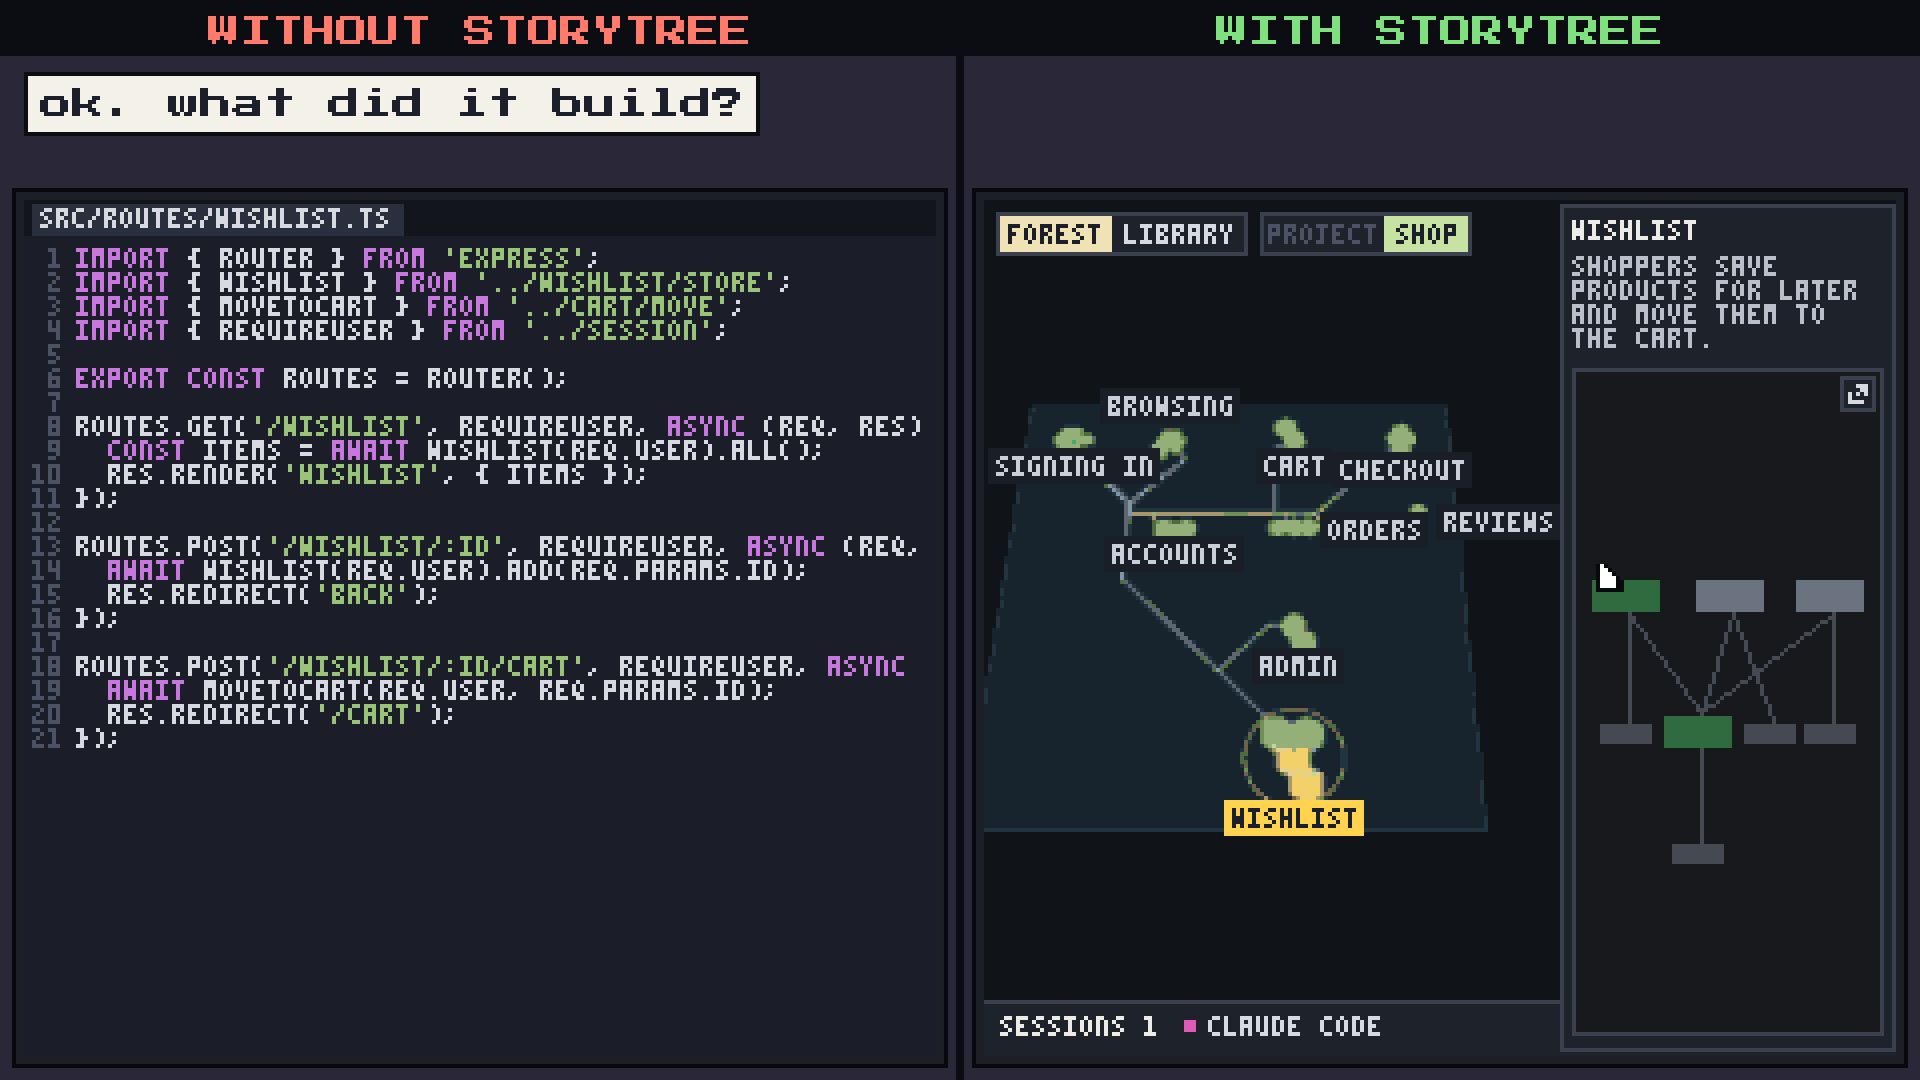
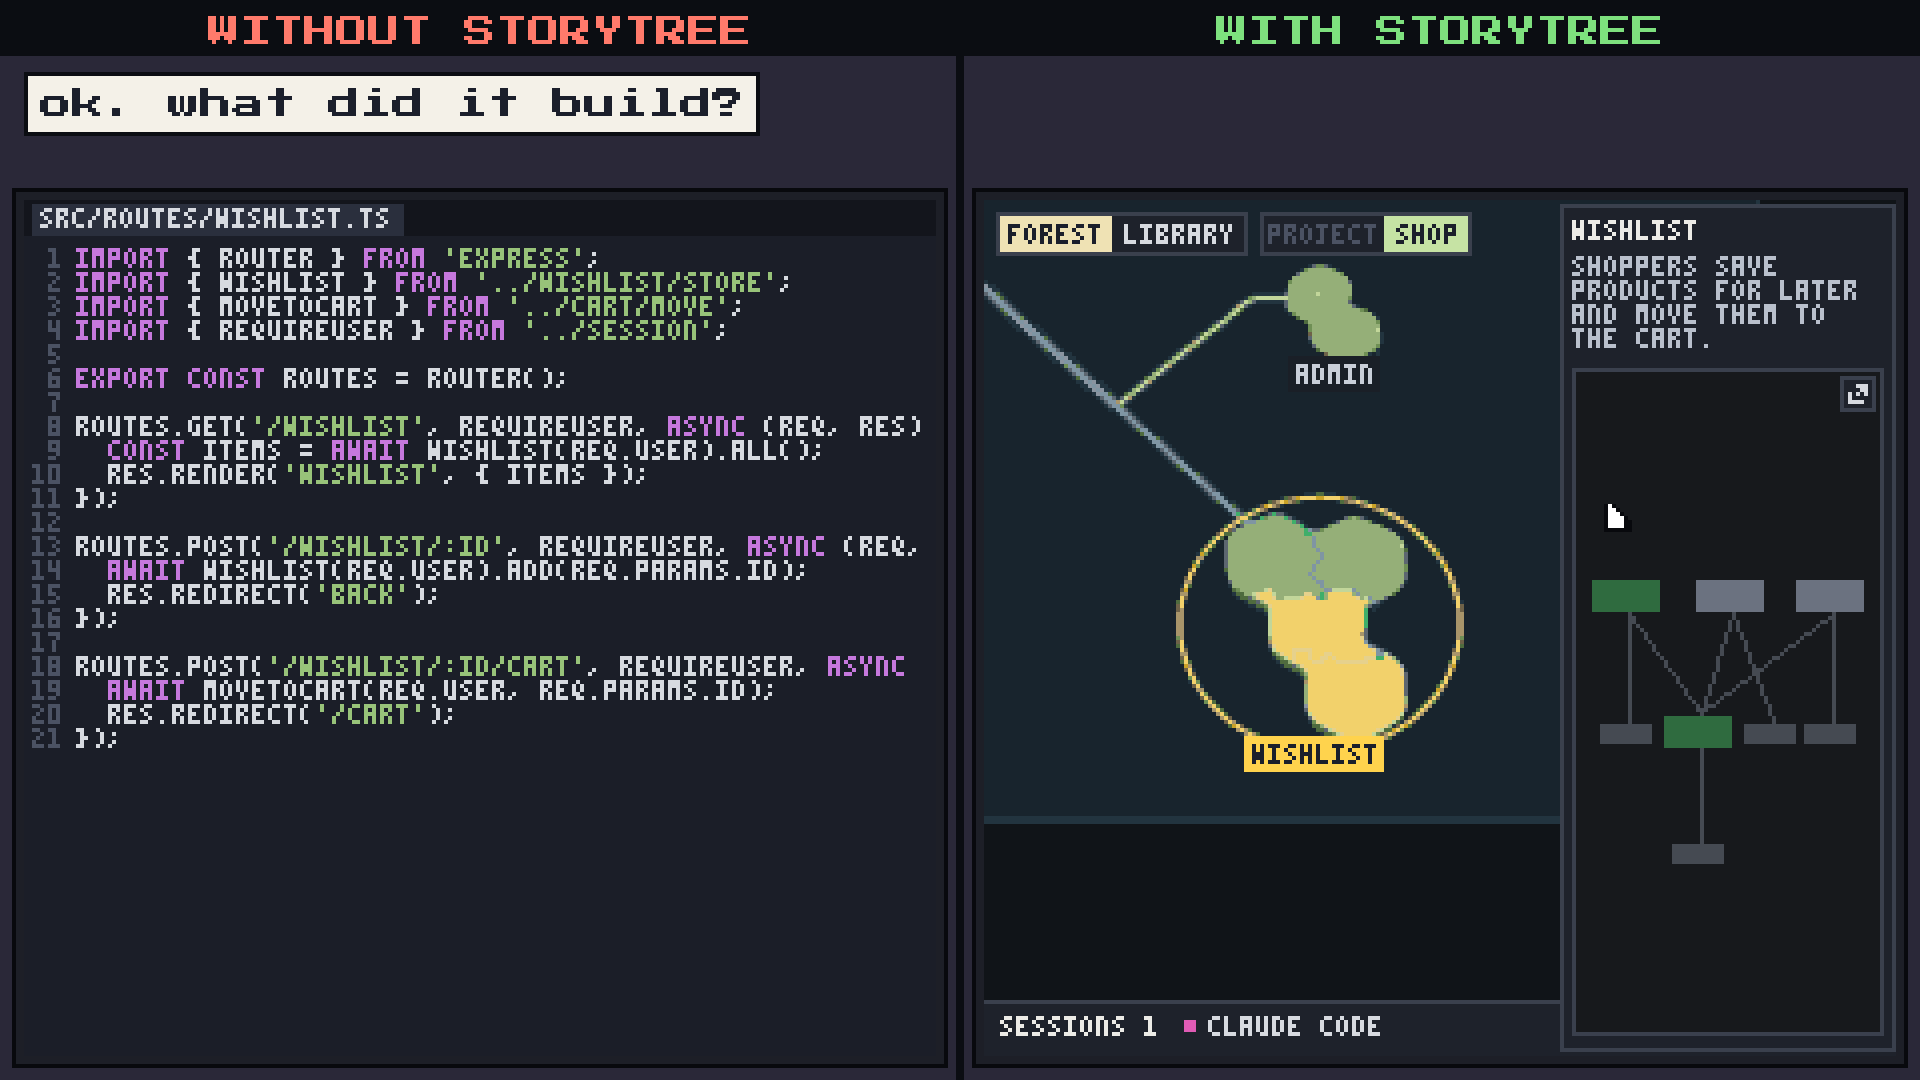
Round 5's findings and the second loop's trail: two majors on the map stand after the cap

Changed region(s): [[0.5, 0.2444, 0.8438, 0.7944], [0.8125, 0.5194, 0.8438, 0.55], [0.7812, 0.7333, 0.8125, 0.7639]]

diff --git a/packages/website/evidence/first-short/polish-2/round-5/timing.md b/packages/website/evidence/first-short/polish-2/round-5/timing.md
@@ -1,0 +1,73 @@
+# Round 5: the script's timing
+
+58 s at 30 fps; the end card from 54 s. Cuts (a change of view, app or file; a new pose or thought inside one view is not a cut): left 1.50, 10.00, 11.00, 15.50, 19.00, 22.00, 23.00, 37.50, 38.50, 41.00, 42.00, 48.00, 49.00; right 1.50, 10.00, 11.00, 15.50, 19.00, 22.00, 23.00, 41.00, 48.00; the end card 54.00.
+
+## Without storytree (left half)
+
+| from | to | view | screen | pose | what happens |
+| --- | --- | --- | --- | --- | --- |
+| 0.00 | 1.50 | room | claude | typing |  |
+| 1.50 | 10.00 | full | claude | typing | types "add a wishlist to the shop"; Claude: "done: shoppers can save items for later. 9 files changed." |
+| 10.00 | 11.00 | room | code src/routes/wishlist.ts | reading |  |
+| 11.00 | 15.50 | full | code src/routes/wishlist.ts | reading | thinks "ok. what did it build?" |
+| 15.50 | 19.00 | full | code src/wishlist/store.ts | reading | thinks "so this saves the list..." |
+| 19.00 | 22.00 | full | code src/cart/move.ts | reading | thinks "and this moves it?" |
+| 22.00 | 23.00 | room | claude | typing |  |
+| 23.00 | 32.60 | full | claude | typing | types "ok so the wishlist thing you built. not the page with the..." (349 chars); Claude: "which one: move in cart, or the button?" |
+| 32.60 | 37.50 | full | claude | reading | thinks "let me look." |
+| 37.50 | 38.50 | room | code src/cart/move.ts | reading |  |
+| 38.50 | 41.00 | full | code src/cart/move.ts | reading | thinks "this one?" |
+| 41.00 | 42.00 | room | claude | typing |  |
+| 42.00 | 48.00 | full | claude | typing | types "the cart one i think"; Claude: "and should it stay on the wishlist after?" |
+| 48.00 | 49.00 | room | code src/wishlist/store.ts | reading |  |
+| 49.00 | 54.00 | full | code src/wishlist/store.ts | reading | thinks "let me check..." |
+
+## With storytree (right half)
+
+| from | to | view | screen | pose | what happens |
+| --- | --- | --- | --- | --- | --- |
+| 0.00 | 1.50 | room | claude | typing |  |
+| 1.50 | 10.00 | full | claude | typing | types "add a wishlist to the shop"; Claude: "done: shoppers can save items for later. 9 files changed." |
+| 10.00 | 11.00 | room | map | typing |  |
+| 11.00 | 15.50 | full | map | typing | clicks the island, its panel opens |
+| 15.50 | 17.40 | full | graph | typing |  |
+| 17.40 | 19.00 | full | graph | typing | thinks "looks about right. let me just check one thing." |
+| 19.00 | 22.00 | room | graph | leaning | thinks "looks about right. let me just check one thing." |
+| 22.00 | 23.00 | room | claude | typing |  |
+| 23.00 | 34.50 | full | claude | typing | types "wishlist / 4 · move to cart: does it empty the list?"; Claude: "no: it moves the item to the cart and keeps it on the list. no test yet." |
+| 34.50 | 41.00 | full | claude | typing | types "good. now build sharing a list."; Claude: "on it." |
+| 41.00 | 42.50 | room | claude | standing |  |
+| 42.50 | 44.50 | room | claude | walking |  |
+| 44.50 | 48.00 | room | claude | gone |  |
+| 48.00 | 54.00 | full | claude | gone |  |
+
+## Lines a viewer must read, and how long each is held
+
+Reading time is words / 2.5 + 1 s.
+
+| half | line | shown from | to | held | needs |
+| --- | --- | --- | --- | --- | --- |
+| without | add a wishlist to the shop | 3.37 | 10.00 | 6.63 | 3.40 |
+| without | done: shoppers can save items for later. 9 files changed. | 3.97 | 10.00 | 6.03 | 5.00 |
+| without | ok. what did it build? | 11.00 | 15.50 | 4.50 | 3.00 |
+| without | so this saves the list... | 15.50 | 19.00 | 3.50 | 3.00 |
+| without | and this moves it? | 19.00 | 22.00 | 3.00 | 2.60 |
+| without | which one: move in cart, or the button? | 31.93 | 37.50 | 5.57 | 4.20 |
+| without | let me look. | 32.60 | 37.50 | 4.90 | 2.20 |
+| without | this one? | 38.50 | 41.00 | 2.50 | 1.80 |
+| without | the cart one i think | 42.33 | 48.00 | 5.67 | 3.00 |
+| without | and should it stay on the wishlist after? | 42.97 | 48.00 | 5.03 | 4.20 |
+| without | let me check... | 49.00 | 54.00 | 5.00 | 2.20 |
+| with | add a wishlist to the shop | 3.37 | 10.00 | 6.63 | 3.40 |
+| with | done: shoppers can save items for later. 9 files changed. | 3.97 | 10.00 | 6.03 | 5.00 |
+| with | Wishlist | 13.07 | 15.50 | 2.43 | 1.40 |
+| with | 4 · Move to cart | 15.50 | 19.00 | 3.50 | 3.00 |
+| with | looks about right. let me just check one thing. | 17.40 | 22.00 | 4.60 | 4.60 |
+| with | wishlist / 4 · move to cart: does it empty the list? | 24.73 | 41.00 | 16.27 | 5.80 |
+| with | no: it moves the item to the cart and keeps it on the list. no test yet. | 25.37 | 41.00 | 15.63 | 7.80 |
+| with | good. now build sharing a list. | 35.53 | 41.00 | 5.47 | 3.40 |
+| with | on it. | 36.13 | 41.00 | 4.87 | 1.80 |
+| with | write src/wishlist/share.ts | 48.30 | 54.00 | 5.70 | 1.80 |
+| with | write src/wishlist/share.test.ts | 48.90 | 54.00 | 5.10 | 1.80 |
+| with | run tests: 31 passed | 49.50 | 54.00 | 4.50 | 2.60 |
+| with | update the map: 5 · share link | 50.10 | 54.00 | 3.90 | 3.80 |

diff --git a/packages/website/evidence/first-short/polish-2/README.md b/packages/website/evidence/first-short/polish-2/README.md
@@ -1,0 +1,31 @@
+# The first short's second polish loop (increment_fa48e88589f9)
+
+The owner's notes on PR #1540's cut (question_325b76dba4ae, 2026-10-19), as five changes on top of the first loop's bar
+(`../polish/`): the shop's map, not storytree's own; the feature asked for as a new story node whose capability graph he
+inspects; no frustration on the left; 1.5 times the room (480×270 at ×4, ADR-1084); the walk-out not through the chair.
+
+Five rounds, each: render the 1080p cut, build contact sheets (frames every 0.25 s plus the frames either side of every cut,
+each labelled), a still of every beat and the script's timing table (`round.mjs`), then a fresh-context director subagent given
+only `rubric.md`, those pictures, the owner's reference and the app's screenshot of the shop (never the builder's reasoning)
+returns numbered findings with a timestamp and a severity and a pass or fail on each of the ten rubric items. Every blocker and
+major was answered before the next round, fixed or rejected with its reason (each round's `findings.md`); the loop stops at no
+blocker and no major, or after round 5. It stopped after round 5. **The director cannot see motion:** it sees sampled stills
+only, so the walk cycle, the chair's roll, the cursor's path, the panel's slide and any pop between samples were never judged.
+
+| Round | Blockers | Majors | Items failed | What the round's answers were |
+| --- | --- | --- | --- | --- |
+| 1 | 0 | 5 | 2, 4, 6, 7 | the whole shop sheet framed, every island named; the app's panel (title, description, its graph with the pop-out button) and the map sliding aside; the halves cutting together, 58 s; the graph's names and the yellow land rejected as the saved plan's and the app's own |
+| 2 | 0 | 2 | 2, 9 | the sheet fitted beside the panel; the app's toolbar and sessions strip round the map; part numbers kept with their names; flat green islands rejected (the shop's parts are all proven) |
+| 3 | 0 | 2 | 2, 3, 6, 9 | the sheet tilted one step by the app's own key, closer in; a narrower panel; names placed round islands |
+| 4 | 0 | 1 | 2, 7, 9, 10 | the click flies the view to the wishlist island, as the app's selection does |
+| 5 | 0 | 2 | 2 | (the last round: none) |
+
+What stands after round 5 (`round-5/findings.md`):
+- The glass sheet still does not read as a thick lit slab. The forest's own drawing at the short's size is as flat (checked on
+  a still without the short's palette); its land's height is under a pixel there. After the click flies in, an empty dark strip
+  shows under the land.
+- The island fills two parts yellow while the graph labels them untested on grey strips. Both are the app's own vocabulary, one
+  on its map and one in its graph.
+
+The pictures are stored as 256-colour PNGs (they come from the compressed MP4 anyway); `round.mjs` writes them full-colour. The
+PixelLab calls this loop made (33 generations, the room and two poses) are in `../pixellab/generations.json`.

diff --git a/packages/website/evidence/first-short/polish-2/round-5/findings.md b/packages/website/evidence/first-short/polish-2/round-5/findings.md
@@ -1,0 +1,40 @@
+# Round 5: the director's findings (the last round)
+
+A fresh director, given only the rubric, the reference, the app's screenshot, these sheets, the stills and `timing.md`. This is
+the cut that lands. The loop stops here (five rounds), so nothing below was changed after it.
+
+## Findings
+
+1. **10.0–15.5, right. Major (2, 9).** The sheet in the overview is a flat dark trapezoid with a hairline edge: no thickness, no
+   lit rim, thin flat islands. After the click flies the view in, the slab's edge leaves the frame and an empty dark strip is
+   left under the land (about y 820–1000 of the lossless still). Suggested: a lit front edge a few pixels thick, a darker side
+   band on the islands, and the slab's edge kept in frame after the zoom.
+2. **13.0–19.0, right. Major (2).** The graph labels "3 · Wishlist page" and "4 · Move to cart" UNTESTED with grey strips while
+   the island paints them yellow: two vocabularies. (Both are the app's own: its map fills a part not yet proven yellow, and its
+   graph's strip for an untested part is grey, `packages/forest/src/view/territory-land.ts` and `styles.css`.)
+3. **13.3–15.5, right. Minor (2).** The panel's graph has no words and sits low in an otherwise empty box.
+4. **11.0–12.5, right. Minor (7).** Before the click only its yellow land marks the island as new.
+5. **19.0–22.0, right. Minor (5).** The thought dots stop short of his head.
+6. **22.0, right. Minor (5).** A room shot leaning back cuts to a room shot typing: a jump cut.
+7. **10.0–15.5, right. Minor (1).** His pose is "typing" while the screen shows him clicking with the mouse.
+
+## Scorecard
+
+| Rubric item | Round 5 |
+| --- | --- |
+| 1 Set and staging | PASS |
+| 2 The product is current | **FAIL** (findings 1, 2) |
+| 3 Legibility | PASS |
+| 4 Pacing | PASS |
+| 5 Craft | PASS (minors 5, 6) |
+| 6 The shop's map | PASS |
+| 7 A new story node | PASS (minor 4) |
+| 8 No frustration | PASS |
+| 9 More room | PASS (every 4×4 block of the 11 lossless stills is one colour) |
+| 10 The walk-out | PASS |
+
+## Could not judge
+
+Motion between the 0.25 s samples (whether the chair visibly rolls as he rises, his legs' path past it at 41.5–41.8 s, the walk
+cycle, whether the zoom at 12.6 s glides or jumps: it jumps, as the app does with reduced motion asked for, the panel's slide),
+jitter between samples, typing cadence, any entrance animation of the new island (there is none), sound.

diff --git a/packages/website/evidence/first-short/polish/README.md b/packages/website/evidence/first-short/polish/README.md
@@ -1,7 +1,7 @@
 # The first short's polish loop (increment_ea834305fe2d)
 
 Five rounds, each: render the 1080p cut, build contact sheets (frames every 0.25 s plus the frames either side of every cut,
-each labelled), a still of every beat and the script's timing table (`round.mjs`), then a fresh-context director subagent
+each labelled), a still of every beat and the script's timing table (`round.mjs`, since moved to `../polish-2/round.mjs`, which writes the second loop's rounds), then a fresh-context director subagent
 given only the rubric, those pictures and the table (never the builder's reasoning) returns numbered findings with a
 timestamp and a severity and a pass or fail on each rubric item. Every blocker and major was worked before the next round;
 the loop stops at no blocker and no major, or after round 5. It stopped after round 5.
@@ -21,7 +21,7 @@ depth; in front: through it). The director cannot see motion between sampled fra
 cursor's path and the panel's slide were never judged.
 
 Every round's contact sheets, timing table and findings are kept; the beat stills only for round 5, the cut that lands. The
-pictures are stored as 256-colour PNGs (they come from the compressed MP4 anyway); `round.mjs` writes them full-colour.
+pictures are stored as 256-colour PNGs (they come from the compressed MP4 anyway); the round script writes them full-colour.
 
 After round 5 the composition was made to wait until the forest's drawing is the same picture several times running before
 its first frame (the renders' tests had caught two renders of one frame differing on a busy machine: the roads round the
